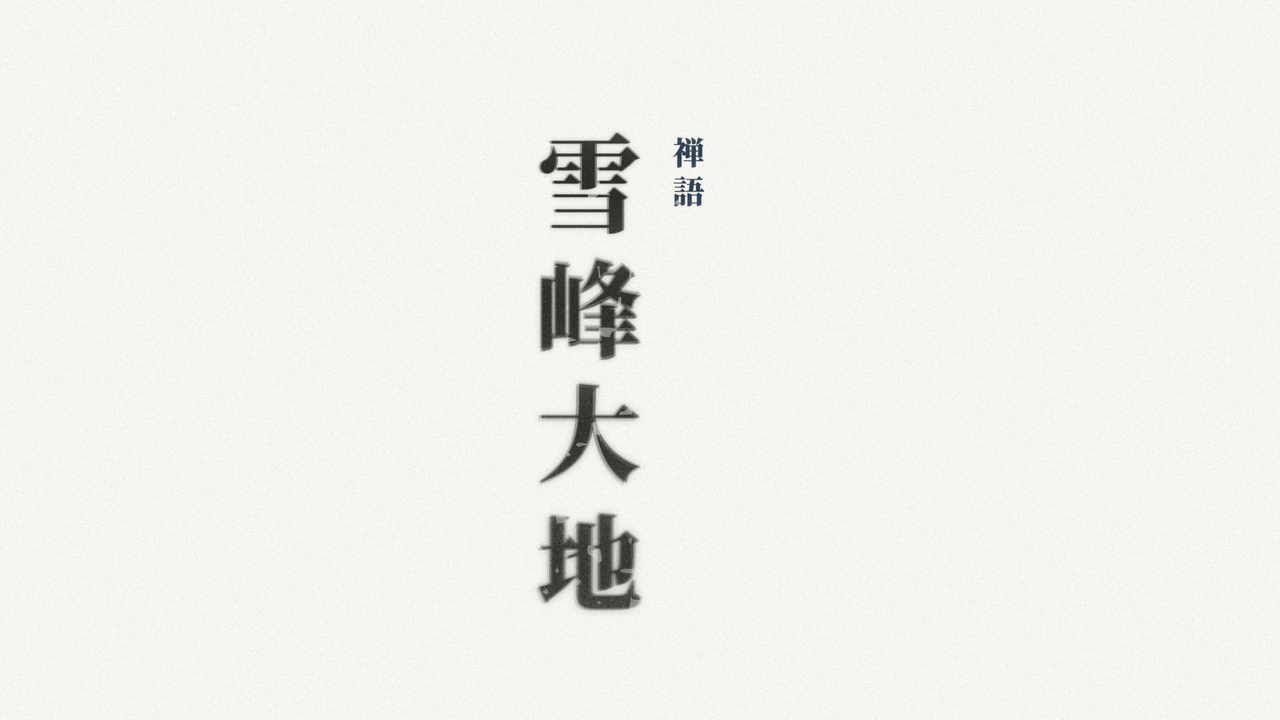
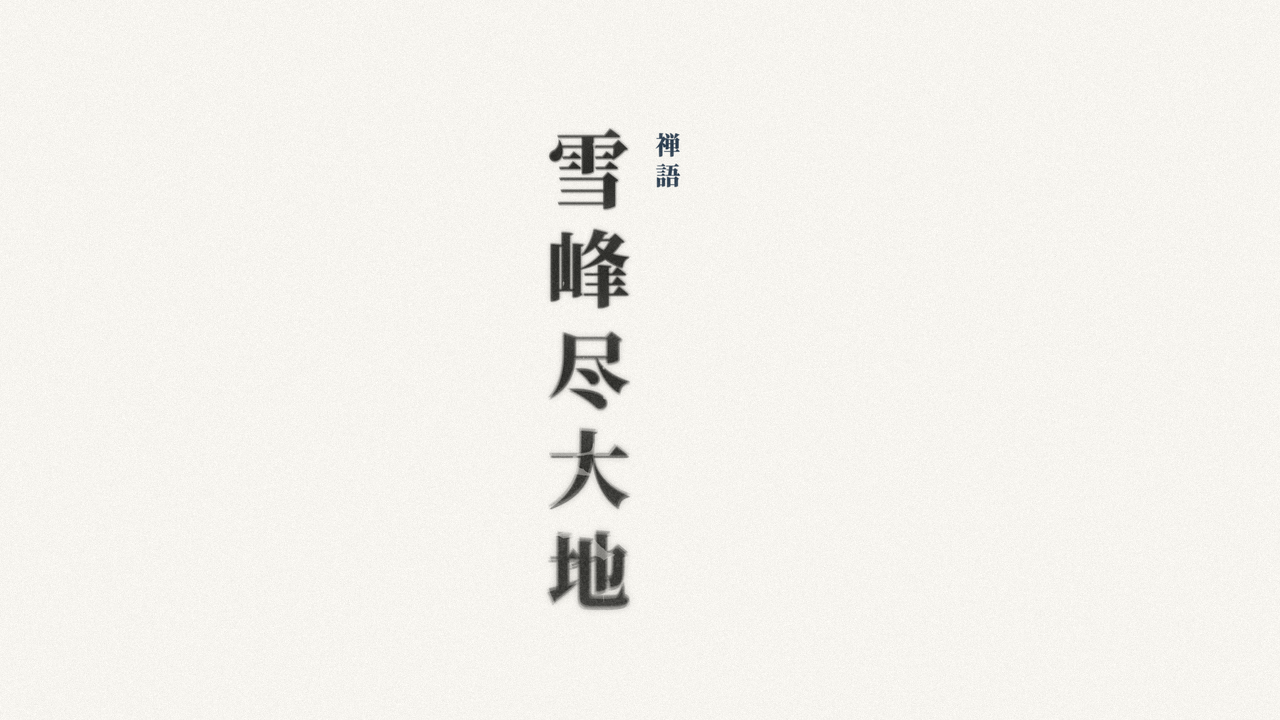
公案名の誤り修正: 雪峰大地 → 雪峰尽大地（daichi）
碧巌録第五則の正式な公案名は「雪峰尽大地」（せっぽうのじんだいち）。「尽」（大地を
まるごと、の意）を落とした「雪峰大地」という誤った短縮名になっていたのをオーナー
指摘で発見・修正。EN/JAタイトル・カバー画像・タグトラッカー・note README・
covers README を全て修正し、カバーを再生成（5字、崩れなし確認済み）。

Changed region(s): [[0.4062, 0.1833, 0.5625, 0.8556]]

diff --git a/tools/build_covers.py b/tools/build_covers.py
@@ -299,7 +299,7 @@ JOBS = [
     ("anjin", "安心", "禅語"),
     ("mu", "無", "禅語"),
     ("kanto", "百尺竿頭進一歩", "禅語"),
-    ("daichi", "雪峰大地", "禅語"),
+    ("daichi", "雪峰尽大地", "禅語"),
     ("nichinichi", "日日是好日", "禅語"),
     ("muinoshinnin", "無位真人", "禅語"),
 ]

diff --git a/articles/tag-tracker.md b/articles/tag-tracker.md
@@ -34,7 +34,7 @@ Medium 記事ごとに確定した **5 タグ**を記録するシリーズ横断
 | 4 | Mindfulness | 広リーチ | 固定ペアの一方。①と共通させ著者プロフィール上の露出を集約 |
 | 5 | Japan | ニッチ | ①と同様の文化フック |
 
-### 禅語シリーズ（無位真人・日日是好日・雪峰大地・百尺竿頭進一歩・無・安心・一日不作一日不食・麻三斤・梅子熟也・本来無一物・喫茶去・香厳撃竹・平常心是道・隻手の声・無功徳・主人公・看脚下・一期一会・玄関・放下著・喝・拈華微笑・一華開五葉・鏡花水月）
+### 禅語シリーズ（無位真人・日日是好日・雪峰尽大地・百尺竿頭進一歩・無・安心・一日不作一日不食・麻三斤・梅子熟也・本来無一物・喫茶去・香厳撃竹・平常心是道・隻手の声・無功徳・主人公・看脚下・一期一会・玄関・放下著・喝・拈華微笑・一華開五葉・鏡花水月）
 
 | 記事 | 1（主） | 2 | 3 | 4 | 5 | メモ |
 |---|---|---|---|---|---|---|
@@ -59,7 +59,7 @@ Medium 記事ごとに確定した **5 タグ**を記録するシリーズ横断
 | 安心 anjin | **Anxiety** | Self Improvement | Mindfulness | Stress Management | Zen | 公開済み。慧可「心が落ち着かない、鎮めてほしい」に達磨「その心をここに出してみよ」＝不安を固定した対象として扱う限り探しても見つからない。管理ではなく直視への問い。primary Anxiety はシリーズ初 |
 | 無 mu | **Uncertainty** | Self Improvement | Mindfulness | Critical Thinking | Zen | 新規（draft）。趙州の「犬に仏性はあるか」への「無」＝答えが用意されていない問いを、性急な確信で埋めずに抱え続ける。primary Uncertainty はシリーズ初。sekishu の primary Critical Thinking と角度が近いため4枠目に配置し重複を回避 |
 | 百尺竿頭進一歩 kanto | **Complacency** | Self Improvement | Mindfulness | Career Growth | Zen | 新規（draft）。長沙景岑への「百尺竿頭からどう一歩進むか」に「朗州山、澧州水」＝到達後の「次」は同じ登攀の延長ではなく、登っている間は見えていなかった足もとの世界に気づくこと。primary Complacency はシリーズ初 |
-| 雪峰大地 daichi | **Perspective** | Self Improvement | Mindfulness | Problem Solving | Zen | 新規（draft）。雪峰義存「大地をつかめば粟粒大」＝目の前に示されても抽象的な規模でしか見ていないと気づけない。太鼓を打って共同で探せという指示＝一人で抱え込まず具体的に手を伸ばすことへの問い。primary Perspective はシリーズ初 |
+| 雪峰尽大地 daichi | **Perspective** | Self Improvement | Mindfulness | Problem Solving | Zen | 新規（draft）。雪峰義存「大地をつかめば粟粒大」＝目の前に示されても抽象的な規模でしか見ていないと気づけない。太鼓を打って共同で探せという指示＝一人で抱え込まず具体的に手を伸ばすことへの問い。primary Perspective はシリーズ初 |
 | 日日是好日 nichinichi | **Procrastination** | Self Improvement | Mindfulness | Acceptance | Zen | 新規（draft）。雲門文偃「十五日より後について一句を言え」に誰も答えられず自ら「日々是好日」＝節目の日と、価値が劣るとされる日々という区別そのものへの拒絶。「状況が落ち着いたら」型の先延ばしへの問い。primary Procrastination はシリーズ初 |
 | 無位真人 muinoshinnin | **Status** | Self Improvement | Mindfulness | Self Worth | Zen | 新規（draft）。臨済義玄「位のない真の人」＝肩書き・年功という序列の下にすでにある、与えられも奪われもしない何か。「それは何か」と問われ僧の胸ぐらをつかんだ臨済＝定義を要求する動きそのものが見失わせる、という逆説。primary Status はシリーズ初。katsu(同じく臨済)とは扱う教えが別（喝の技法 vs 無位真人）で角度重複なし |
 

diff --git a/articles/medium/daichi-en.md b/articles/medium/daichi-en.md
@@ -1,6 +1,6 @@
 ---
-title: "He Picked Up the Entire Earth. It Was the Size of a Grain of Rice — and Still, No One Saw It. The Zen Case \"Xuefeng's Handful of Earth\" (雪峰大地)."
-subtitle: "The Zen Case \"Xuefeng's Handful of Earth\" (雪峰大地)."
+title: "He Picked Up the Entire Earth. It Was the Size of a Grain of Rice — and Still, No One Saw It. The Zen Case \"Xuefeng's Handful of Earth\" (雪峰尽大地)."
+subtitle: "The Zen Case \"Xuefeng's Handful of Earth\" (雪峰尽大地)."
 platform: medium
 lang: en
 status: draft        # draft | review | revising | published
@@ -11,7 +11,7 @@ cover: "../covers/daichi.png"
 source: "新規執筆（禅語シリーズ）。事実確認済み（雪峰義存の生没年822-908・徳山宣鑑の法嗣・雲門文偃ら複数の法嗣を輩出したこと・碧巌録第五則1125年成立/圜悟克勤編・原文「盡大地撮來如粟米粒大、抛向面前、漆桶不會、打鼓普請看」の逐語確認・漆桶が禅語で見えていない/わかっていない者への常套的な譬えであること・普請が禅林の共同作務を指す語であること）。"
 ---
 
-# He Picked Up the Entire Earth. It Was the Size of a Grain of Rice — and Still, No One Saw It. The Zen Case "Xuefeng's Handful of Earth" (雪峰大地).
+# He Picked Up the Entire Earth. It Was the Size of a Grain of Rice — and Still, No One Saw It. The Zen Case "Xuefeng's Handful of Earth" (雪峰尽大地).
 
 A teacher tells his assembled students: pick up the whole earth, and it's the size of a single grain of rice. He throws it down in front of them, right where they're sitting. Nobody sees it. He doesn't explain further or offer it again. He calls for the drum to be beaten and tells everyone to get up and search for it together.
 

diff --git a/articles/note/daichi-ja.md b/articles/note/daichi-ja.md
@@ -1,5 +1,5 @@
 ---
-title: "大地をまるごと手に取ってみせた。粟粒ほどの大きさだった。それでも、誰も見えなかった。禅の公案「雪峰大地(せっぽうだいち)」の話"
+title: "大地をまるごと手に取ってみせた。粟粒ほどの大きさだった。それでも、誰も見えなかった。禅の公案「雪峰尽大地(せっぽうのじんだいち)」の話"
 platform: note
 lang: ja
 status: draft        # draft | review | revising | published
@@ -22,7 +22,7 @@ note投稿手順:
 7. タグは投稿画面の専用欄で入力(本文末尾のタグ行は参照メモ)
 -->
 
-【タイトル案】大地をまるごと手に取ってみせた。粟粒ほどの大きさだった。それでも、誰も見えなかった。禅の公案「雪峰大地(せっぽうだいち)」の話
+【タイトル案】大地をまるごと手に取ってみせた。粟粒ほどの大きさだった。それでも、誰も見えなかった。禅の公案「雪峰尽大地(せっぽうのじんだいち)」の話
 
 師が、集まった弟子たちに言います。大地をまるごとつかみ上げてみれば、粟(あわ)の粒ほどの大きさになる。師はそれを、弟子たちの目の前、いままさに座っているその場所に放り投げます。誰も見えません。師はそれ以上説明も、繰り返しもしません。太鼓を打ち鳴らし、全員で立ち上がって探せ、と告げるだけでした。
 

diff --git a/articles/covers/README.md b/articles/covers/README.md
@@ -30,7 +30,7 @@
 | `anjin.png` | 1280×720 | 安心 / anjin |
 | `mu.png` | 1280×720 | 無 / mu |
 | `kanto.png` | 1280×720 | 百尺竿頭進一歩 / kanto（8字弱で1列だと字が小さくなりすぎるため「百尺竿頭」「進一歩」で縦2列に分割） |
-| `daichi.png` | 1280×720 | 雪峰大地 / daichi |
+| `daichi.png` | 1280×720 | 雪峰尽大地 / daichi |
 | `nichinichi.png` | 1280×720 | 日日是好日 / nichinichi |
 | `muinoshinnin.png` | 1280×720 | 無位真人 / muinoshinnin |
 | `ichigu.png` | 1280×720 | 一隅を照らす / ichigu（**仏教語シリーズ**。禅語シリーズと差別化するため、背景が温かみのある生成り色 `#F2E8D4`（禅語シリーズは寒色寄りの白 `#F7F5F0`）、アクセントが琥珀色 `#8B5A2B`（禅語シリーズはネイビー `#2C3E50`）、ラベルが「仏教語」、加えて禅語シリーズには無い**法輪の背景モチーフ**入り。サムネイル（中央正方形クロップ）だけでもシリーズの違いが分かることを確認済み。他は全て禅語シリーズ＝プレーン白背景・モチーフ無し・ラベル「禅語」） |
